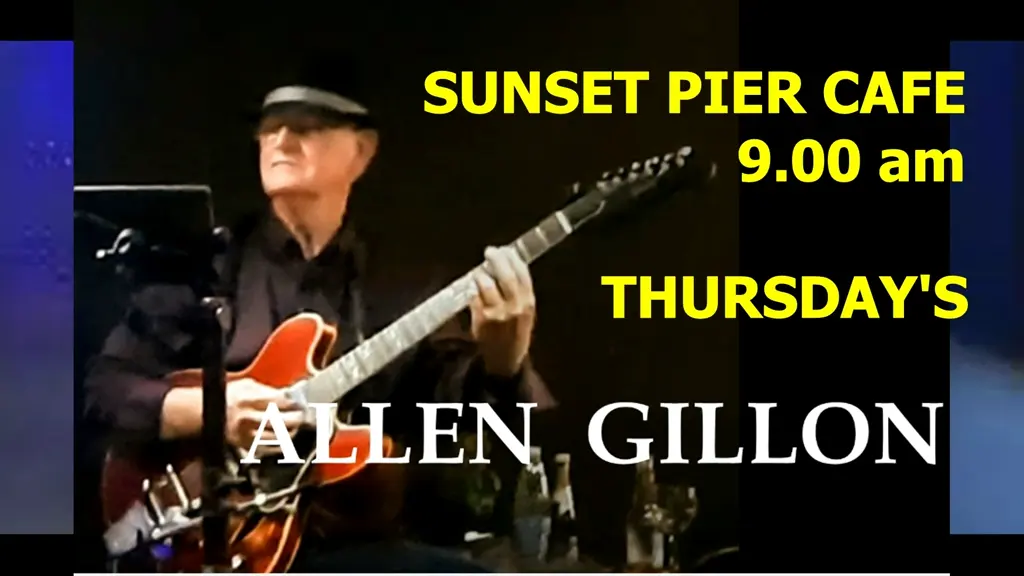
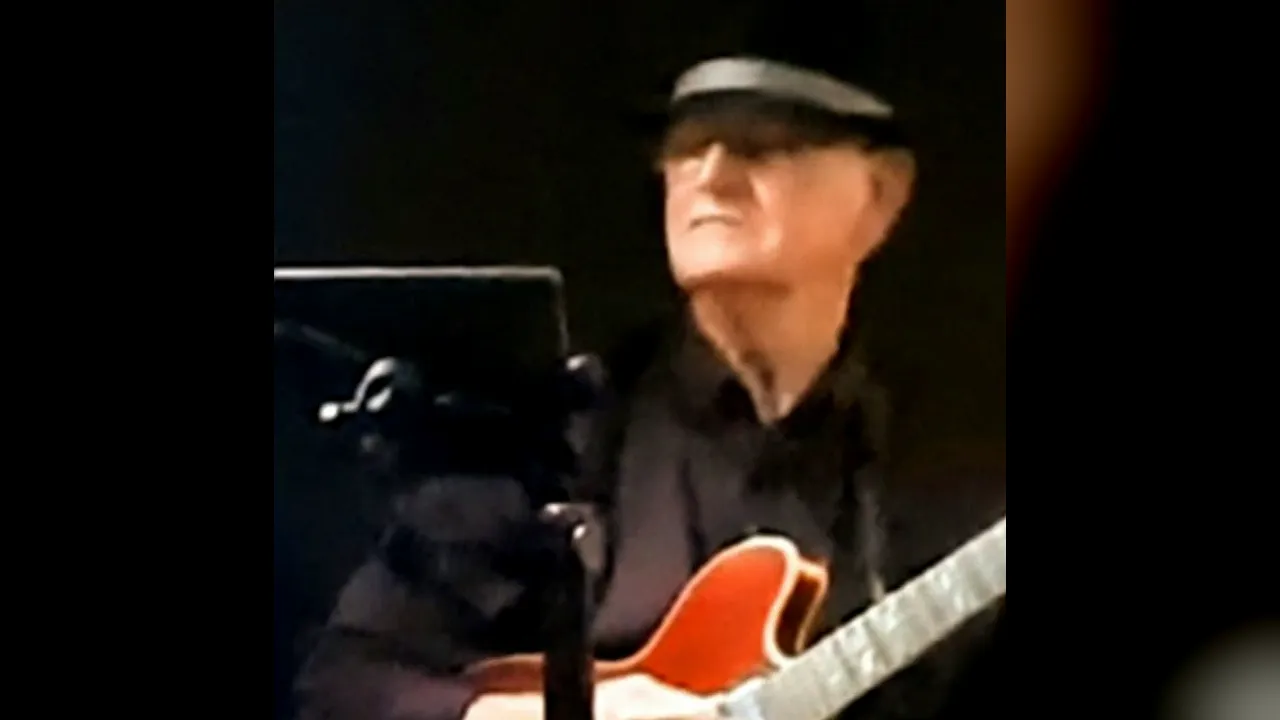
W5 music fixes: album deep links, no vw on instruments, free meta
- The fragment id (/music#misty) moves to the sleeve button: from 1024px
  the album wrapper is display:contents and had no box to scroll to. A
  hash naming an album also opens it (Timeless "Misty" link, schema URLs).
- Gibson phone peek sized from the header's own width (px floor and cap),
  no vw anywhere in instrument rules; it now goes through MotionObserver
  instead of an on-load keyframe.
- Sleeve hover changes colour only; the record moves only when open or
  loaded (DESIGN.md Motion).
- Each album's meta shows its running time and "Free".
- Track rows capped at 30rem with a quiet dotted leader to the time.
- "Download album free" uses aria-disabled while preparing, so keyboard
  focus stays on it.
- Posters: Timeless lead shows Ann and Allen together, both Timeless
  posters fill 16:9 without burned-in text; Travellin' Road uses a
  text-free frame; the YouTube play mark sits in the lower-left corner,
  clear of the lyric captions.
- e2e: viewport-unit check covers every declaration in instrument rules;
  new tests for /music#misty at 1280px and focus on the download button.

diff --git a/app/(main)/music/music.css b/app/(main)/music/music.css
@@ -21,22 +21,19 @@ html.motion-ok .instrument[data-motion].is-in{
 
 /* ---------- Header: "Albums" and the Trini Lopez Gibson ---------- */
 .music-head{position:relative;overflow-x:clip;}
-/* The Gibson is on screen at load, so it slides in with a CSS animation
-   instead of the observer. The global reduced-motion rule removes it. */
-@keyframes gibson-in{from{opacity:0;transform:translateX(30%);}to{opacity:1;transform:none;}}
-.instrument--gibson{animation:gibson-in 1.3s var(--ease-out) .15s both;}
+/* The Gibson goes through MotionObserver like the other instruments: it is
+   usually on screen at load, so it renders in place (is-static) and only
+   slides in when the page opens scrolled past it. */
 
 /* Phones and tablets: the headstock peeks in from the right-hand edge,
-   beside the title. The box starts after the word "Albums" (measured in em
-   of the title's own size) and is one title line tall, so it can never
-   cover the title or the lede. */
+   beside the title. Its box is a share of the header's own width (px floor
+   and cap, never the viewport) and one title line tall at most, so it stays
+   clear of the word "Albums" and the lede. */
 @media (max-width:1023px){
-  .instrument--gibson{position:absolute;z-index:0;
-    font-size:clamp(4rem,11vw,10rem);
-    top:clamp(28px,4vw,64px);right:0;left:calc(var(--gutter) + 2.8em);height:1.05em;
-    overflow:clip;}
-  .instrument--gibson svg{position:absolute;width:5.2em;max-width:none;top:.05em;right:-3.2em;
-    transform:scaleX(-1) rotate(-14deg);transform-origin:50% 50%;}
+  .instrument--gibson{grid-column:full;position:absolute;z-index:0;top:28px;right:0;
+    width:clamp(104px,32%,300px);aspect-ratio:2/1;overflow:clip;}
+  .instrument--gibson svg{position:absolute;width:250%;max-width:none;top:-12%;left:8%;
+    transform:scaleX(-1) rotate(-10deg);transform-origin:50% 50%;}
 }
 /* Laptops and up: the whole guitar lies across the right of the header,
    its headstock running off the page edge. */
@@ -83,9 +80,13 @@ html.motion-ok .instrument[data-motion].is-in{
 .album.is-loaded .disc{animation:discspin 7s linear infinite paused;}
 .album.is-playing .disc{animation-play-state:running;}
 @keyframes discspin{from{transform:translateX(var(--out)) rotate(0deg);}to{transform:translateX(var(--out)) rotate(360deg);}}
+/* Hover changes colour only (DESIGN.md, Motion): the sleeve's frame turns
+   red. The record moves only when the album is open or loaded. */
+.sleeve img{transition:border-color .2s var(--ease-out);}
 @media (hover:hover){
-  .sleeve:hover .disc,.sleeve:focus-visible .disc{transform:translateX(var(--out)) rotate(80deg);}
+  .sleeve:hover img{border-color:var(--red-deep);}
 }
+.sleeve{scroll-margin-top:24px;}
 /* Touch: the record peeks at rest, so the sleeve reads as something to pull. */
 @media (hover:none){
   .disc{transform:translateX(8%);}
@@ -94,6 +95,9 @@ html.motion-ok .instrument[data-motion].is-in{
 .album-title{font-size:1.45rem;line-height:1.25;margin:14px 0 0;}
 .album.open .album-title{color:var(--red-deep);}
 .album .meta{color:var(--soft);font-size:1rem;margin:2px 0 0;}
+.meta-part{white-space:nowrap;}
+.meta-free{color:var(--ink);font-weight:700;}
+.album-download-button[aria-disabled="true"]{cursor:progress;}
 
 /* The open panel: one primary action, then the tracks. */
 .trkpanel{margin-top:20px;}
@@ -104,8 +108,13 @@ html.motion-ok .instrument[data-motion].is-in{
 .album-download-status:empty{display:none;}
 .album-note{margin:0;font-size:1rem;color:var(--soft);max-width:34ch;}
 .trklist{list-style:none;margin:18px 0 0;padding:0;}
+/* Rows are capped so the time and the download icon stay close to the song
+   title on wide screens; a quiet dotted rule leads the eye across. */
 .trklist li{display:grid;grid-template-columns:48px minmax(0,1fr) auto 44px;align-items:center;gap:4px 14px;
-  padding:4px 0;break-inside:avoid;}
+  padding:4px 0;break-inside:avoid;max-width:30rem;}
+.trklist .tname{display:flex;align-items:baseline;gap:10px;min-width:0;}
+.trklist .tname::after{content:"";flex:1 1 auto;min-width:12px;border-bottom:2px dotted oklch(0.40 0.03 300 / .35);
+  transform:translateY(-4px);}
 .trklist .tname{font-size:1.05rem;}
 .trklist li.is-current .tname{color:var(--red-deep);font-weight:700;}
 .tplay{display:inline-grid;place-items:center;padding:0;}
@@ -190,7 +199,9 @@ html.motion-ok .instrument[data-motion].is-in{
 .video .frame{position:relative;aspect-ratio:16/9;background:var(--ink);}
 .lite-yt,.lite-yt-frame{position:absolute;inset:0;display:block;width:100%;height:100%;border:0;}
 .lite-yt img{display:block;width:100%;height:100%;object-fit:cover;}
-.lite-yt-mark{position:absolute;left:50%;top:50%;width:clamp(56px,16%,88px);height:auto;transform:translate(-50%,-50%);}
+/* The play mark sits in the lower-left corner: these are lyric videos and
+   the words burned into their frames run across the middle. */
+.lite-yt-mark{position:absolute;left:clamp(10px,4%,24px);bottom:clamp(10px,6%,24px);width:clamp(52px,14%,80px);height:auto;}
 .lite-yt-mark circle{fill:oklch(0.22 0.02 300 / .82);stroke:var(--on);stroke-width:3;transition:fill .2s var(--ease-out);}
 .lite-yt-mark path{fill:var(--on);}
 .lite-yt:hover .lite-yt-mark circle,.lite-yt:focus-visible .lite-yt-mark circle{fill:var(--red-deep);}

diff --git a/components/Album.jsx b/components/Album.jsx
@@ -1,6 +1,6 @@
 "use client";
 
-import { useState } from "react";
+import { Fragment, useEffect, useState } from "react";
 import { usePlayer } from "./Player";
 import { PREVIEW_LABEL, isPreviewTrack } from "../lib/player-state.mjs";
 
@@ -16,8 +16,8 @@ import { PREVIEW_LABEL, isPreviewTrack } from "../lib/player-state.mjs";
      and turns only while that album's status is "playing" (paused keeps it
      still where it stopped).
 
-   Layout (app/(main)/music/music.css): from 1024px each album is
-   display:contents inside a grid, so its sleeve, title and meta sit in its
+   Layout (app/(main)/music/music.css): from 1024px each album wrapper is
+   display:contents inside a grid (so the fragment id lives on the sleeve), so its sleeve, title and meta sit in its
    own column (--col) and the open panel spans the whole shelf underneath.
    Below that, the panel follows its own album. */
 
@@ -48,6 +48,14 @@ function DownloadIcon() {
       <path d="M4.1 14.4C4.3 16.4 4.2 18.3 4.5 20.1C9.6 20.4 14.4 20.3 19.6 19.9C19.8 18.1 19.7 16.3 19.9 14.3" />
     </svg>
   );
+}
+
+function runningTime(tracks) {
+  const seconds = tracks.reduce((sum, t) => {
+    const [m, s] = String(t.time).split(":").map(Number);
+    return sum + (m || 0) * 60 + (s || 0);
+  }, 0);
+  return `${Math.round(seconds / 60)} min`;
 }
 
 function safeName(text) {
@@ -110,13 +118,24 @@ function Album({ index, id, title, meta, cover, shelfCover, note, tracks, open, 
           : "";
 
   return (
-    <div className={classes.join(" ")} id={id} style={{ "--col": index + 1 }}>
+    <div className={classes.join(" ")} style={{ "--col": index + 1 }}>
       <h2 className="album-title" id={`title-${id}`}>
         {title}
       </h2>
-      <p className="meta">{meta}</p>
+      <p className="meta">
+        {[...meta.split(" · "), runningTime(tracks)].map((part) => (
+          <Fragment key={part}>
+            <span className="meta-part">{part} ·</span>{" "}
+          </Fragment>
+        ))}
+        <span className="meta-part meta-free">Free</span>
+      </p>
+      {/* The fragment id (/music#misty) is on the sleeve, not the wrapper:
+          from 1024px the wrapper is display:contents and has no box to
+          scroll to. */}
       <button
         type="button"
+        id={id}
         className="sleeve"
         aria-expanded={open ? "true" : "false"}
         aria-controls={`trk-${id}`}
@@ -138,7 +157,7 @@ function Album({ index, id, title, meta, cover, shelfCover, note, tracks, open, 
             type="button"
             className="btn album-download-button"
             onClick={downloadAlbum}
-            disabled={downloadState === "preparing"}
+            aria-disabled={downloadState === "preparing" ? "true" : undefined}
           >
             {downloadLabel}
           </button>
@@ -181,6 +200,17 @@ function Album({ index, id, title, meta, cover, shelfCover, note, tracks, open, 
 
 export default function AlbumShelf({ albums }) {
   const [openId, setOpenId] = useState(null);
+  // A link to /music#<album> (the Timeless "Misty" link, schema and share
+  // URLs) opens that album as well as scrolling to its sleeve.
+  useEffect(() => {
+    const openFromHash = () => {
+      const id = decodeURIComponent(location.hash.slice(1));
+      if (albums.some((a) => a.id === id)) setOpenId(id);
+    };
+    openFromHash();
+    addEventListener("hashchange", openFromHash);
+    return () => removeEventListener("hashchange", openFromHash);
+  }, [albums]);
   return (
     <div className="albums" style={{ "--count": albums.length }}>
       {albums.map((album, index) => (

diff --git a/app/(main)/music/page.jsx b/app/(main)/music/page.jsx
@@ -37,7 +37,7 @@ export default function MusicPage() {
           Listen to Allen&rsquo;s four studio albums here: click a cover to open the track list, then choose a song,
           or download the whole album free.
         </p>
-        <div className="instrument instrument--gibson">
+        <div className="instrument instrument--gibson" data-motion="from-right">
           <MusicGibson />
         </div>
       </header>
